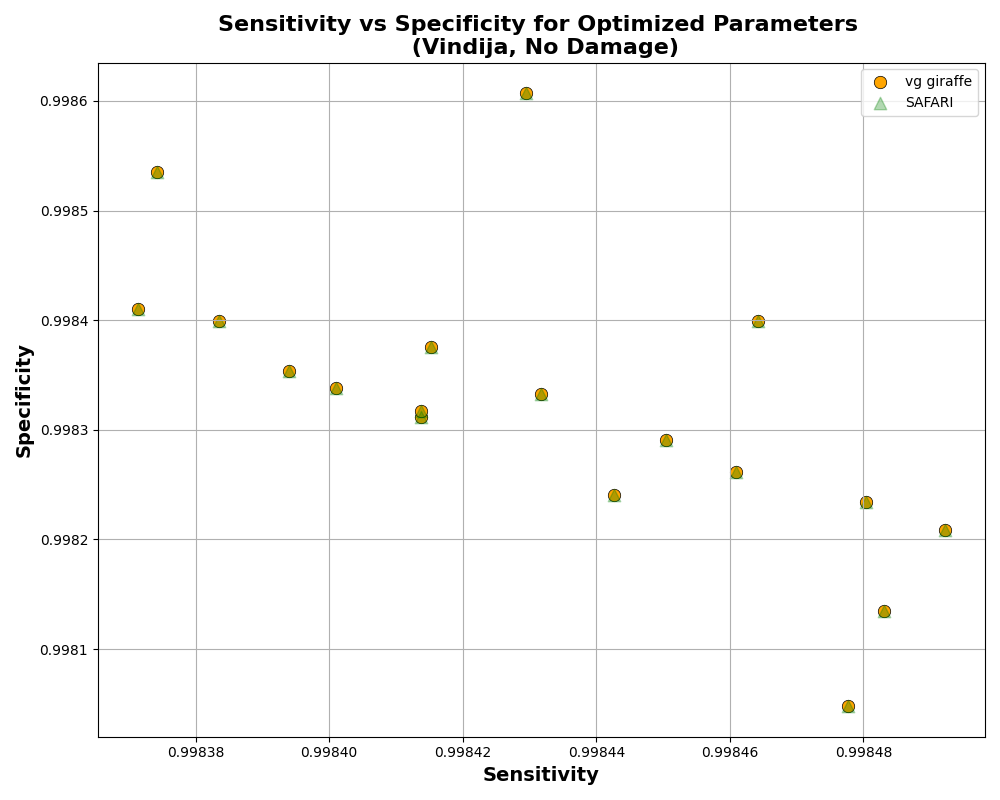
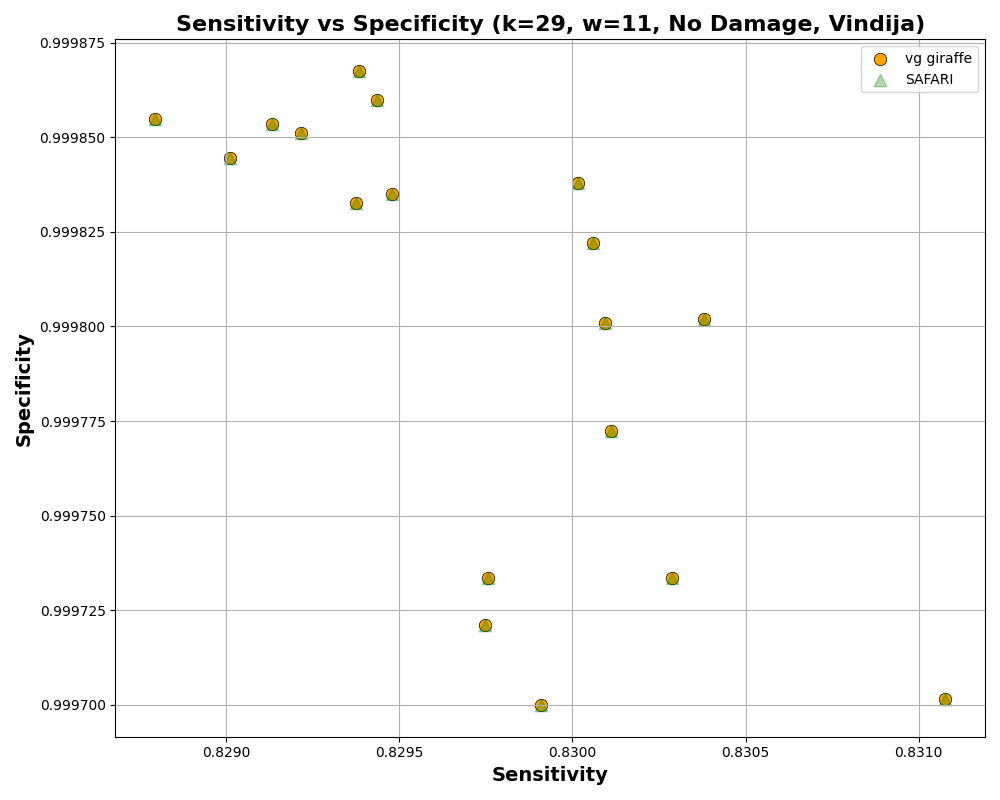
Update

diff --git a/linear_experiment/human_mito/stat_results/plot_svs_none.py b/linear_experiment/human_mito/stat_results/plot_svs_none.py
@@ -1,70 +1,46 @@
 import pandas as pd
 import matplotlib.pyplot as plt
-import numpy as np
 import sys
-import random
 
-def calculate_sensitivity(data):
-    # No additional calculation needed for sensitivity, assuming it's already a column in the data
-    return data
-
-def plot_best_sensitivity(data_path):
+def plot_sensitivity_k29_w11(data_path, output_path, dist):
     # Load data
     data = pd.read_csv(data_path)
 
-    # Filtering data for 'None' damage level and calculating sensitivity
-    filtered_data = calculate_sensitivity(data[(data['damage_level'] == 'None')].copy())
-    # Get medians of sensitivity grouped by tool, k, and w
-    medians_sensitivity = filtered_data.groupby(['tool', 'k', 'w'])['sensitivity'].median().reset_index()
-    # Identify the best (k,w) combination for each tool based on median sensitivity
-    best_sensitivity = medians_sensitivity.loc[medians_sensitivity.groupby('tool')['sensitivity'].idxmax()]
-    best_sensitivity_data = filtered_data.merge(best_sensitivity[['tool', 'k', 'w']], on=['tool', 'k', 'w'])
+    # Filtering data for 'None' damage level and specific k=29 and w=11
+    filtered_data = data[(data['damage_level'] == 'None') & (data['k'] == 29) & (data['w'] == 11)]
 
     # Plotting
     plt.figure(figsize=(10, 8))
-    
-    # Predefined colors for specific tools
     predefined_colors = {'SAFARI': 'green', 'vg giraffe': 'orange'}
-    
-    # Get a list of all tools to ensure unique colors for those not predefined
-    tools = best_sensitivity_data['tool'].unique()
-    color_palette = plt.cm.get_cmap('hsv', len(tools)) # hsv colormap, adjust as needed
-    
-    # Assign colors ensuring unique colors for each tool
+    tools = filtered_data['tool'].unique()
+    color_palette = plt.cm.get_cmap('hsv', len(tools))
+
     tool_colors = {}
     for i, tool in enumerate(tools):
-        if tool in predefined_colors:
-            tool_colors[tool] = predefined_colors[tool]
-        else:
-            while color_palette(i) in predefined_colors.values(): # Ensure unique color assignment
-                i += 1
-            tool_colors[tool] = color_palette(i)
-    
-    # Modify the plotting loop
-    for tool in tools:
-        tool_data = best_sensitivity_data[best_sensitivity_data['tool'] == tool]
-        print(tool_data)
-        if tool == 'vg giraffe':
-            # Adding slight jitter to 'vg giraffe' data points
-            jittered_sensitivity = tool_data['sensitivity']
-            jittered_specificity = tool_data['specificity']
-            plt.scatter(jittered_sensitivity, jittered_specificity, label=f'{tool}', color=tool_colors[tool], alpha=1.0, edgecolor='black', linewidth=0.5,s=80)
-        else:
-            plt.scatter(tool_data['sensitivity'], tool_data['specificity'], label=f'{tool}', color=tool_colors[tool], alpha=0.3, marker='^',s=80)
+        tool_colors[tool] = predefined_colors.get(tool, color_palette(i))
 
-    plt.title('Sensitivity vs Specificity for Optimized Parameters \n (' + sys.argv[3] + ", No Damage)", fontsize=16, fontweight='bold')
+    for tool in tools:
+        tool_data = filtered_data[filtered_data['tool'] == tool]
+        if tool == 'vg giraffe':
+            plt.scatter(tool_data['sensitivity'], tool_data['specificity'], label=tool, color=tool_colors[tool], alpha=1.0, edgecolor='black', linewidth=0.5, s=80)
+        else:
+            plt.scatter(tool_data['sensitivity'], tool_data['specificity'], label=tool, color=tool_colors[tool], alpha=0.3, marker='^', s=80)
+
+    plt.title(f'Sensitivity vs Specificity (k=29, w=11, No Damage, {dist})', fontsize=16, fontweight='bold')
     plt.xlabel('Sensitivity', fontsize=14, fontweight='bold')
     plt.ylabel('Specificity', fontsize=14, fontweight='bold')
     plt.legend()
     plt.grid(True)
     plt.tight_layout()
-    plt.savefig(sys.argv[2])
+    plt.savefig(output_path)
     plt.show()
 
 if __name__ == '__main__':
     if len(sys.argv) != 4:
-        print("Usage: python script.py <data_path> <output path> <Dist>")
+        print("Usage: python script.py <data_path> <output_path> <Dist>")
         sys.exit(1)
     data_path = sys.argv[1]
-    plot_best_sensitivity(data_path)
+    output_path = sys.argv[2]
+    dist = sys.argv[3]
+    plot_sensitivity_k29_w11(data_path, output_path, dist)
 
